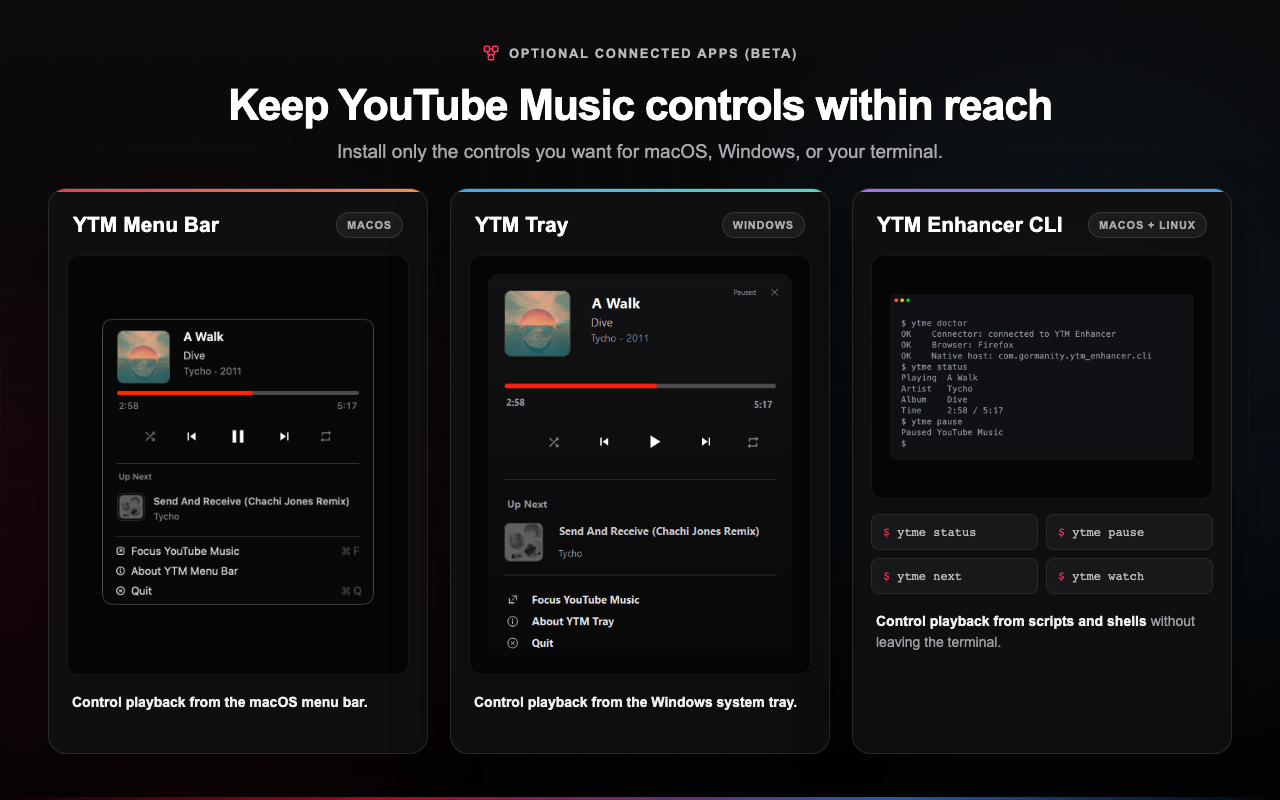
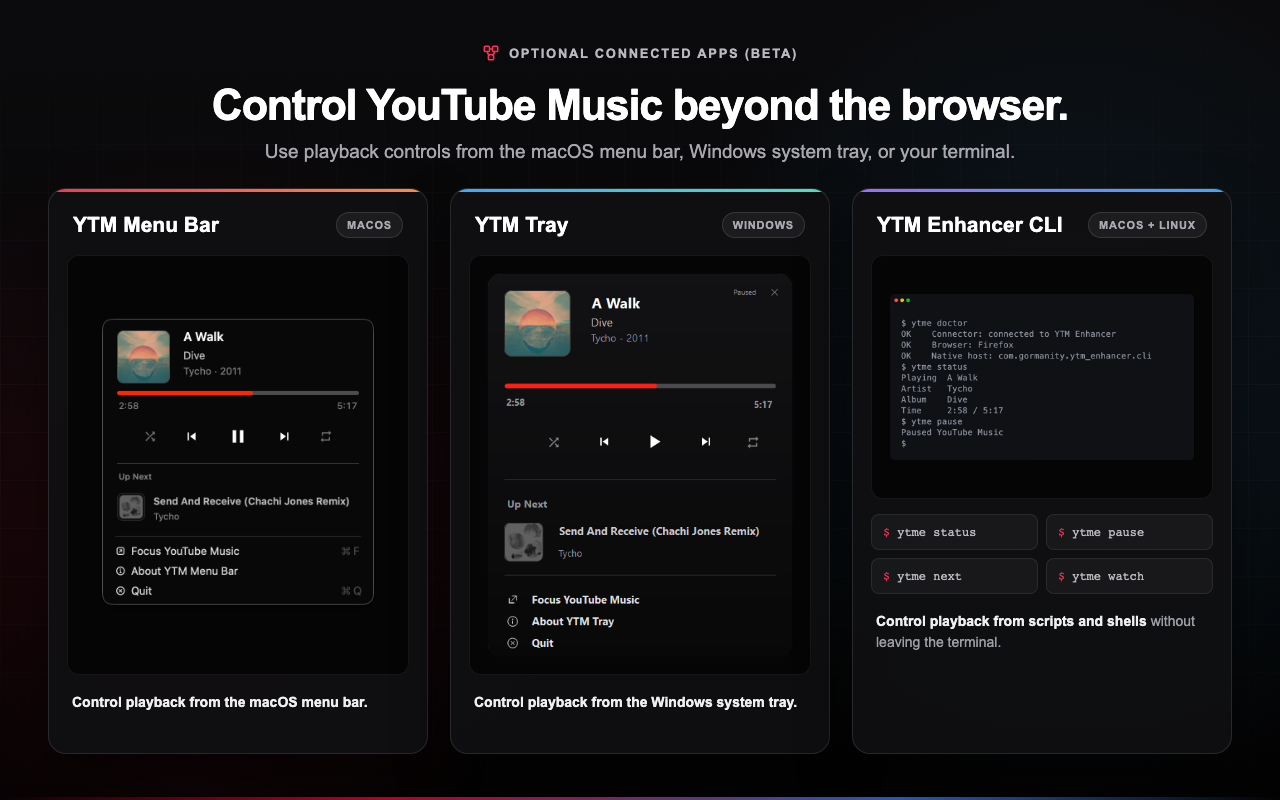
fix(store): distinguish connected apps from mini player

Changed region(s): [[0.1562, 0.0938, 0.8438, 0.2188]]

diff --git a/store/screenshots/05-connected-apps.html b/store/screenshots/05-connected-apps.html
@@ -277,9 +277,10 @@
         </svg>
         Optional Connected Apps (Beta)
       </div>
-      <h1>Keep YouTube Music controls within reach</h1>
+      <h1>Control YouTube Music beyond the browser.</h1>
       <p>
-        Install only the controls you want for macOS, Windows, or your terminal.
+        Use playback controls from the macOS menu bar, Windows system tray, or
+        your terminal.
       </p>
     </header>
 
